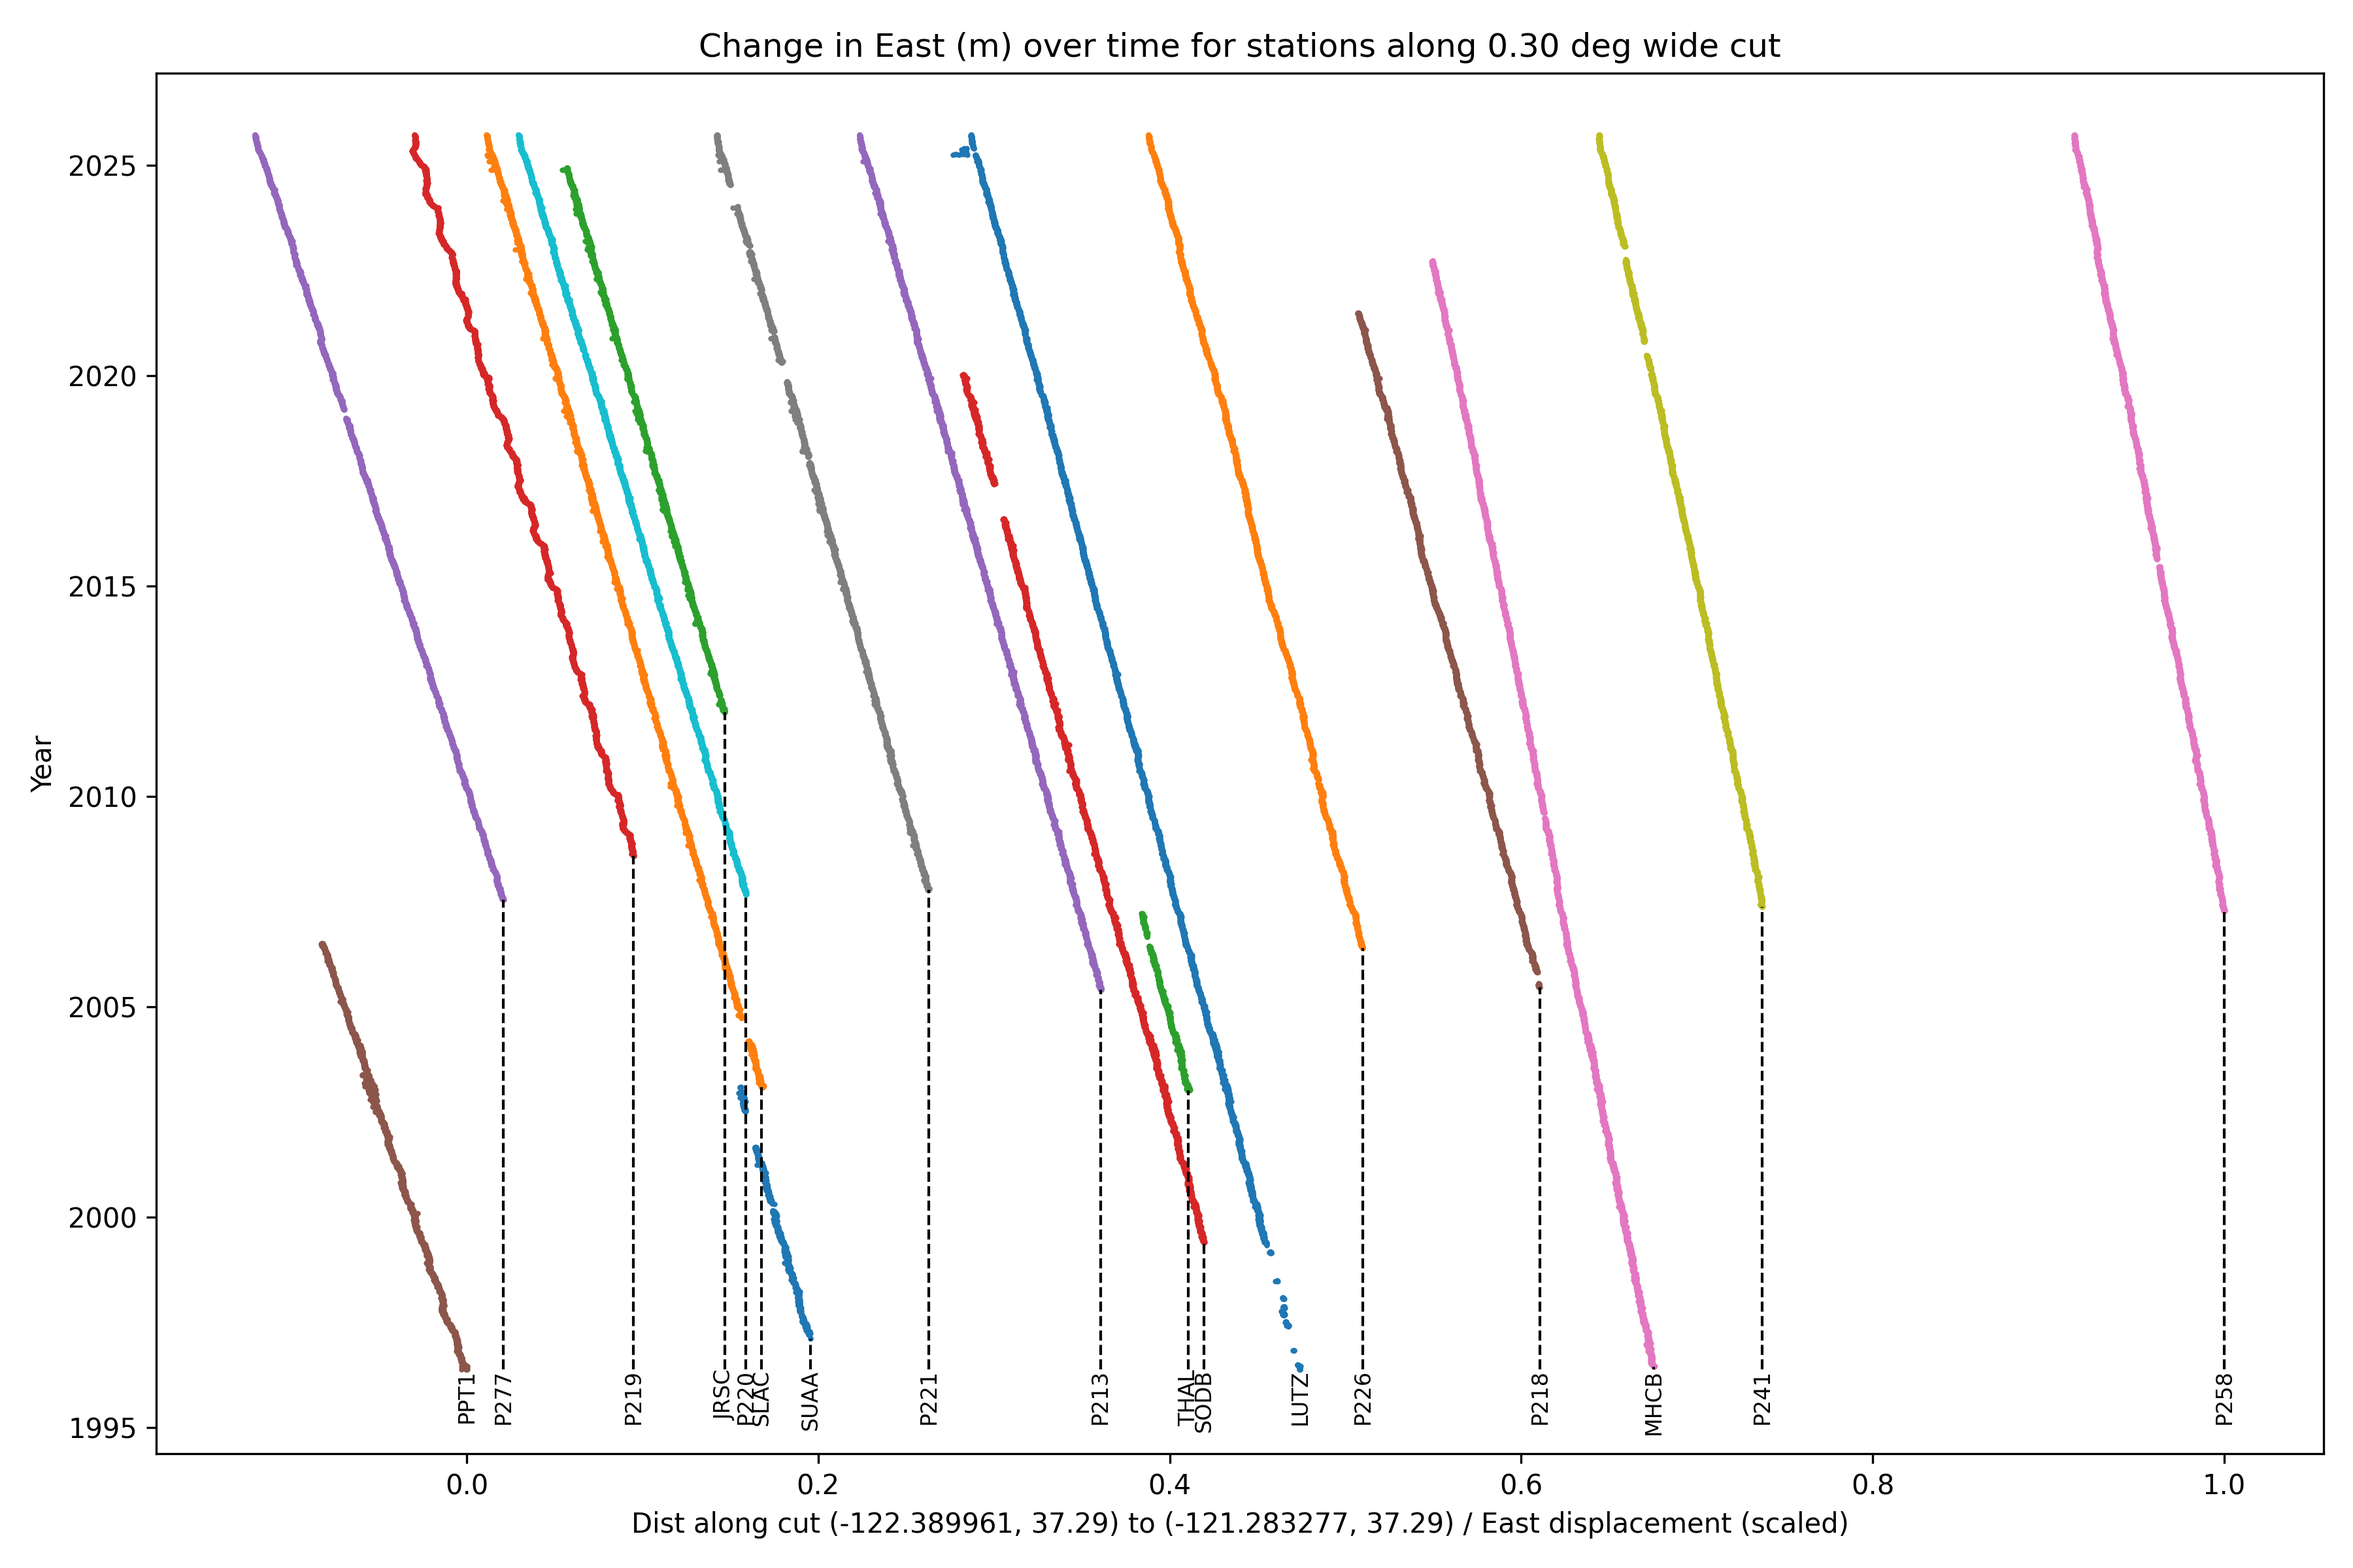
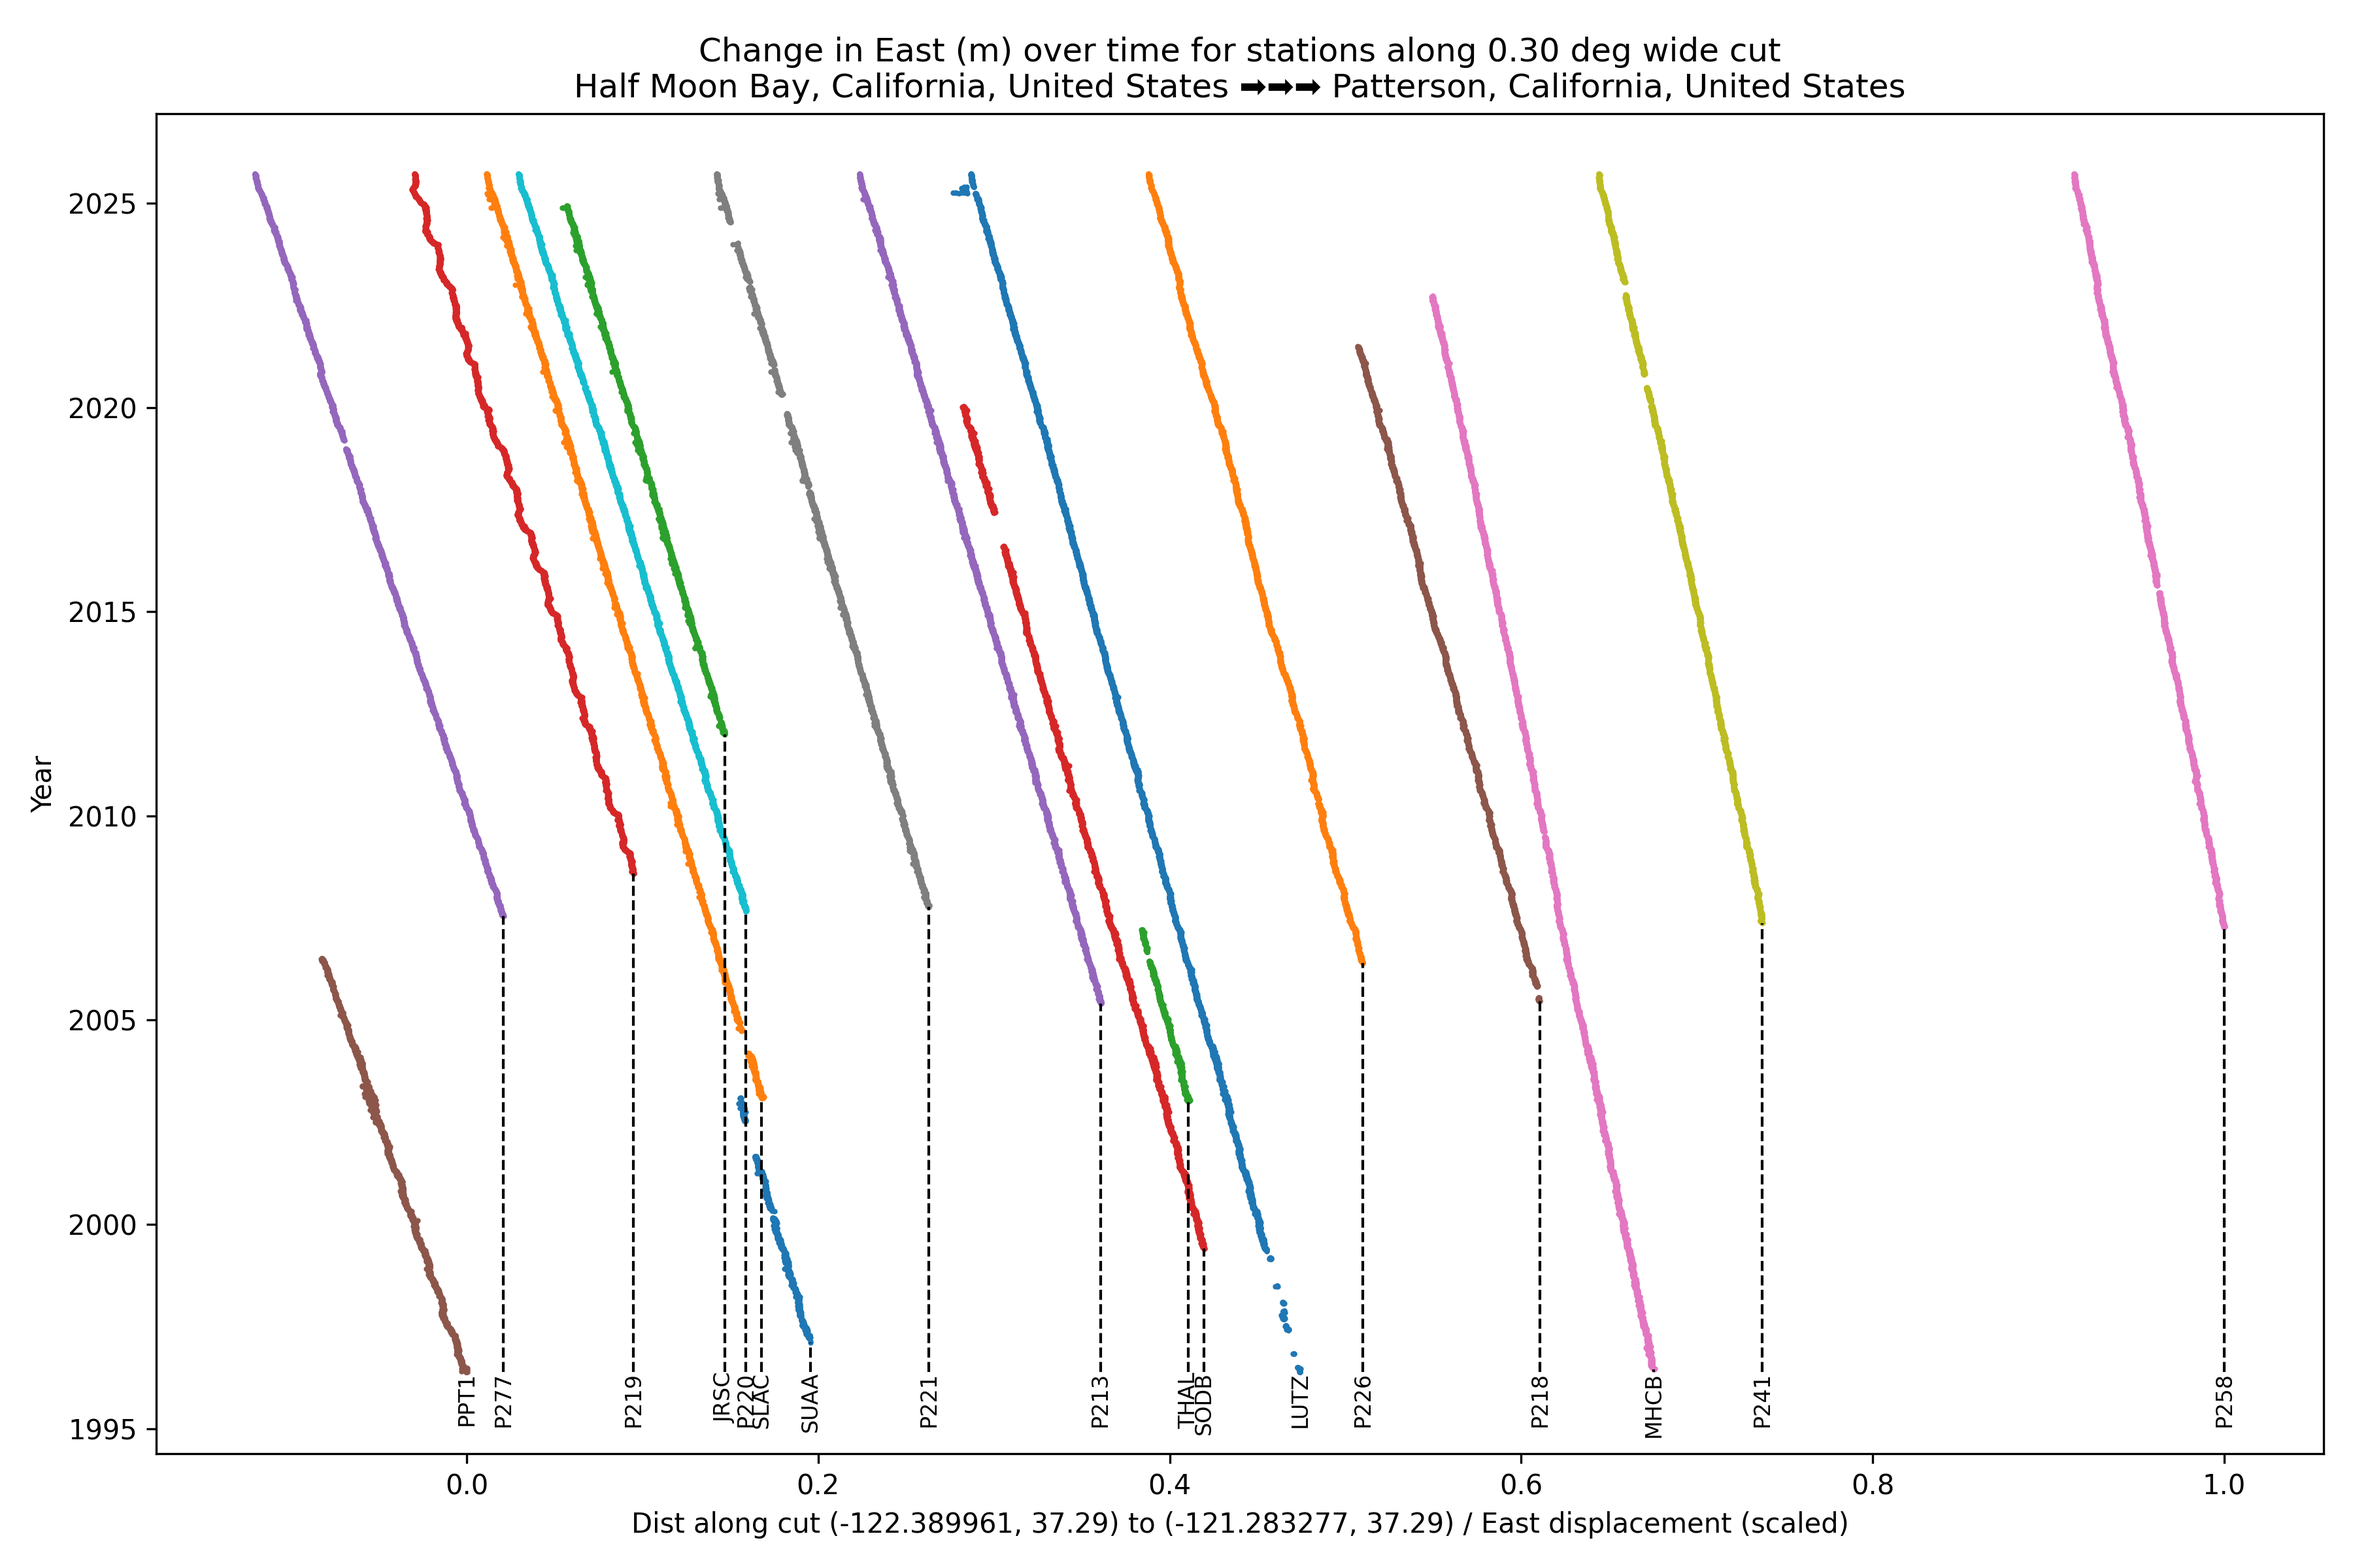
Add cut_section_data table to show the locations and names along the cut section

diff --git a/process_dataset.py b/process_dataset.py
@@ -431,12 +431,32 @@ def neighbor_data_multiplot(cut_beginning, cut_end, cut_width_deg_total,
 
     # cut width:
     cut_width_string = f"{cut_width_deg_total:.2f}"
+
+    pld = reverse_geocode.search([[cut_beginning[1], cut_beginning[0]]])[0]
+    start_place = pld['city'] + ', ' + pld.get('state', '') + ', ' + pld['country']
+    pld = reverse_geocode.search([[cut_end[1], cut_end[0]]])[0]
+    end_place = pld['city'] + ', ' + pld.get('state', '') + ', ' + pld['country']
+    place_string = start_place + ' ➡➡➡ ' + end_place
     
-    plot_component('North (m)', 0.2, 'Change in North (m) over time for stations along '+ cut_width_string + ' deg wide cut', cut_description + ' / North displacement (scaled)', 'north_displacement_plot.png')
-    plot_component('East (m)', 0.2, 'Change in East (m) over time for stations along '+ cut_width_string + ' deg wide cut', cut_description + ' / East displacement (scaled)', 'east_displacement_plot.png')
-    plot_component('Vertical (m)', 1.0, 'Change in Vertical (m) over time for stations along '+ cut_width_string + ' deg wide cut', cut_description + ' / Vertical displacement (scaled)', 'vertical_displacement_plot.png')
+    plot_component('North (m)', 0.2, 'Change in North (m) over time for stations along '+ cut_width_string + ' deg wide cut\n' + place_string, cut_description + ' / North displacement (scaled)', 'north_displacement_plot.png')
+    plot_component('East (m)', 0.2, 'Change in East (m) over time for stations along '+ cut_width_string + ' deg wide cut\n'+ place_string, cut_description + ' / East displacement (scaled)', 'east_displacement_plot.png')
+    plot_component('Vertical (m)', 1.0, 'Change in Vertical (m) over time for stations along '+ cut_width_string + ' deg wide cut\n'+ place_string, cut_description + ' / Vertical displacement (scaled)', 'vertical_displacement_plot.png')
     
-    x = 2
+    # collect a dataframe of station data along the cut section, to be returned.
+    stations_sorted = sorted(station_position_dict.items(), key=lambda item: item[1]['distance_along_cut'])
+    station_table_list_of_dicts = []
+    for item in stations_sorted:
+        x = 2
+        lat = item[1]['lat']
+        long = item[1]['long']
+        pld = nearest_cities_and_states = reverse_geocode.search([[lat,long]])[0]
+        place = pld['city'] + ', ' + pld.get('state', '') + ', ' + pld['country']
+        station_table_list_of_dicts.append({'station': item[0],
+                                            'lat': lat, 'long': long,
+                                            'place': place,
+                                            'x_axis': item[1]['distance_along_cut']})
+    place_df = pd.DataFrame(station_table_list_of_dicts)
+    return place_df
 
 if __name__ == "__main__":
     station_table_ver = 'v1.1' # version of the station locations and velocities table to use.
@@ -458,6 +478,8 @@ if __name__ == "__main__":
     long = -121.8863
     station_to_collect = 'LUTZ' # if get_station_by_lat_long is False, specify the station name here
     max_neighbors_to_collect = 50
+
+    cut_section_data = 'cut_section_data.csv'
 
     station_table_file_path = "station_locations_and_velocities.txt"
     # check if 'station_positions_'+station_table_ver+'.csv' exists.  If it does not, load the station data from the text file.
@@ -541,8 +563,11 @@ if __name__ == "__main__":
         cut_end = (-121.283277, 37.29)      # (long, lat) of ending cut point
         cut_width_deg_total = 0.3  # total width of cut in degrees
 
-        neighbor_data_multiplot(cut_beginning, cut_end, cut_width_deg_total,
+        place_df = neighbor_data_multiplot(cut_beginning, cut_end, cut_width_deg_total,
                                 station_neighbor_data_consistent_timebase_with_NaNs)
+        place_df.to_csv(cut_section_data)
+        
+        x = 2
 
     print('All processing complete.')
     x = 2
